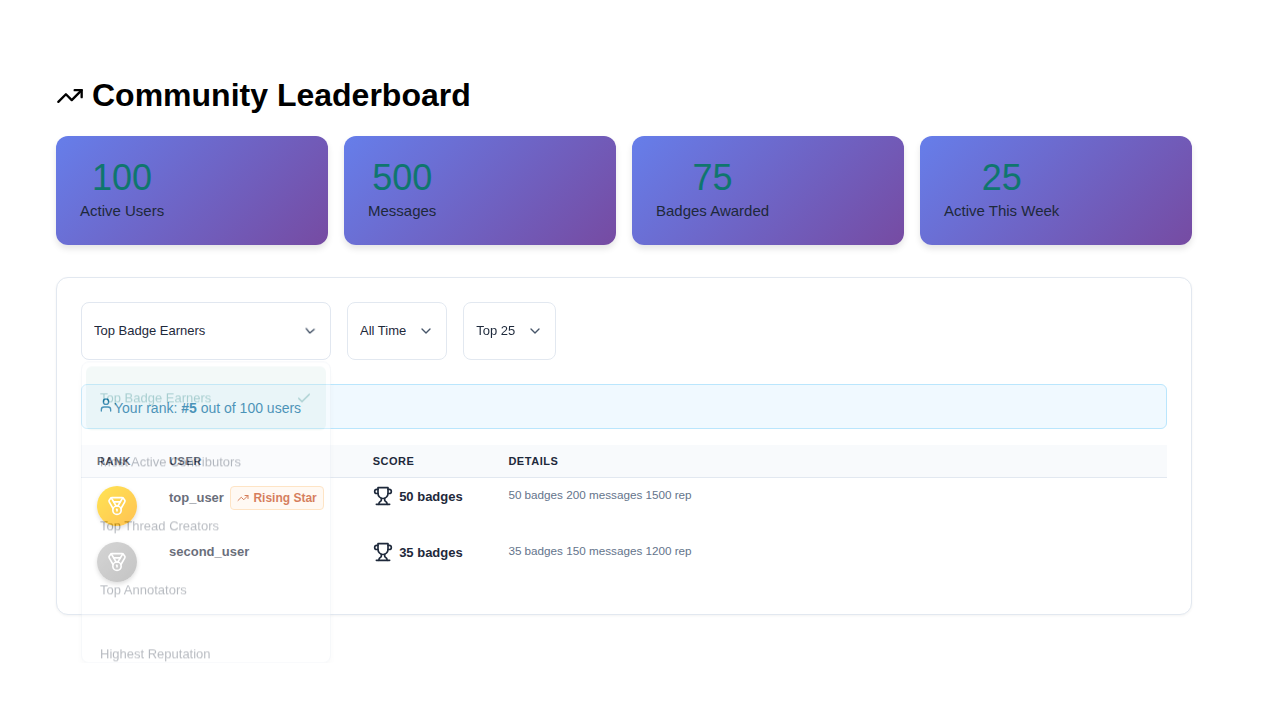
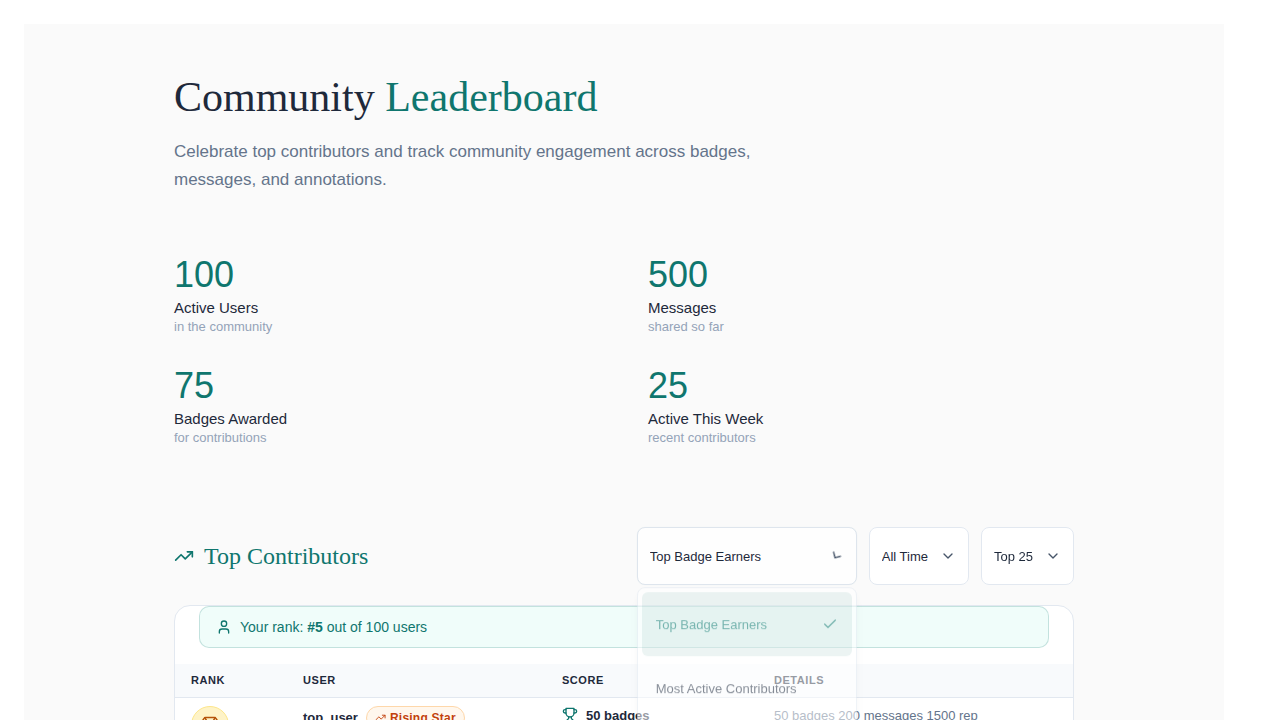
Address review: extract magic colors, fix BadgeMeta pattern, lint, changelog
- Run prettier on Leaderboard.tsx (CI lint failure).
- Extract rank badge palette into RANK_COLORS constants (file-local) and
  reuse OS_LEGAL_COLORS tokens for the silver tier.
- Extract rising-star tag palette into RISING_STAR_COLORS constants.
- Bump RisingStarTag font-size from 11px to 12px (WCAG 2.1 small-text floor).
- Replace BadgeMeta's class-name selectors with named BadgeName / BadgeStats
  styled components, matching the file's overall pattern.
- Add CHANGELOG entry describing the redesign.

diff --git a/frontend/src/components/community/Leaderboard.tsx b/frontend/src/components/community/Leaderboard.tsx
@@ -1,11 +1,6 @@
 import React, { useState } from "react";
 import { useQuery } from "@apollo/client";
-import {
-  Dropdown,
-  StatBlock,
-  StatGrid,
-  Table,
-} from "@os-legal/ui";
+import { Dropdown, StatBlock, StatGrid, Table } from "@os-legal/ui";
 import styled from "styled-components";
 import { useNavigate } from "react-router-dom";
 import {
@@ -32,6 +27,26 @@ import {
 } from "../../types/leaderboard";
 import { Badge } from "../badges/Badge";
 import { OS_LEGAL_COLORS } from "../../assets/configurations/osLegalStyles";
+
+// File-local rank palette. Centralised here so the three RankBadge ternaries
+// stay readable and the values are easy to update in one place. These are
+// intentionally not in OS_LEGAL_COLORS because they are leaderboard-specific.
+const RANK_COLORS = {
+  gold: { bg: "#fef3c7", border: "#fde68a", text: "#b45309" },
+  silver: {
+    bg: OS_LEGAL_COLORS.surfaceLight,
+    border: OS_LEGAL_COLORS.border,
+    text: OS_LEGAL_COLORS.textTertiary,
+  },
+  bronze: { bg: "#fed7aa", border: "#fdba74", text: "#9a3412" },
+} as const;
+
+// File-local "rising star" tag palette (orange/amber tints).
+const RISING_STAR_COLORS = {
+  bg: "#fff7ed",
+  border: "#fed7aa",
+  text: "#c2410c",
+} as const;
 
 // ═══════════════════════════════════════════════════════════════════════════════
 // STYLED COMPONENTS - Aligned with CorpusListView / OS Legal design system
@@ -189,22 +204,22 @@ const RankBadge = styled.div<{ $rank: number }>`
   font-weight: 600;
   font-size: 14px;
   background: ${(props) => {
-    if (props.$rank === 1) return "#fef3c7";
-    if (props.$rank === 2) return "#f1f5f9";
-    if (props.$rank === 3) return "#fed7aa";
+    if (props.$rank === 1) return RANK_COLORS.gold.bg;
+    if (props.$rank === 2) return RANK_COLORS.silver.bg;
+    if (props.$rank === 3) return RANK_COLORS.bronze.bg;
     return OS_LEGAL_COLORS.surfaceLight;
   }};
   color: ${(props) => {
-    if (props.$rank === 1) return "#b45309";
-    if (props.$rank === 2) return "#475569";
-    if (props.$rank === 3) return "#9a3412";
+    if (props.$rank === 1) return RANK_COLORS.gold.text;
+    if (props.$rank === 2) return RANK_COLORS.silver.text;
+    if (props.$rank === 3) return RANK_COLORS.bronze.text;
     return OS_LEGAL_COLORS.textSecondary;
   }};
   border: 1px solid
     ${(props) => {
-      if (props.$rank === 1) return "#fde68a";
-      if (props.$rank === 2) return "#e2e8f0";
-      if (props.$rank === 3) return "#fdba74";
+      if (props.$rank === 1) return RANK_COLORS.gold.border;
+      if (props.$rank === 2) return RANK_COLORS.silver.border;
+      if (props.$rank === 3) return RANK_COLORS.bronze.border;
       return OS_LEGAL_COLORS.border;
     }};
 `;
@@ -237,12 +252,12 @@ const RisingStarTag = styled.span`
   align-items: center;
   gap: 4px;
   padding: 2px 8px;
-  font-size: 11px;
+  font-size: 12px;
   font-weight: 600;
-  background: #fff7ed;
-  border: 1px solid #fed7aa;
+  background: ${RISING_STAR_COLORS.bg};
+  border: 1px solid ${RISING_STAR_COLORS.border};
   border-radius: 999px;
-  color: #c2410c;
+  color: ${RISING_STAR_COLORS.text};
   letter-spacing: 0.02em;
 `;
 
@@ -292,17 +307,17 @@ const BadgeCard = styled.div`
 const BadgeMeta = styled.div`
   flex: 1;
   min-width: 0;
+`;
 
-  .badge-name {
-    font-weight: 600;
-    color: ${OS_LEGAL_COLORS.textPrimary};
-    margin-bottom: 4px;
-  }
+const BadgeName = styled.div`
+  font-weight: 600;
+  color: ${OS_LEGAL_COLORS.textPrimary};
+  margin-bottom: 4px;
+`;
 
-  .badge-stats {
-    font-size: 13px;
-    color: ${OS_LEGAL_COLORS.textSecondary};
-  }
+const BadgeStats = styled.div`
+  font-size: 13px;
+  color: ${OS_LEGAL_COLORS.textSecondary};
 `;
 
 const EmptyStateBox = styled.div`
@@ -505,9 +520,8 @@ export const Leaderboard: React.FC<LeaderboardProps> = ({ corpusId }) => {
                   <RankInfoBanner>
                     <User size={16} />
                     <span>
-                      Your rank:{" "}
-                      <strong>#{leaderboard.currentUserRank}</strong> out of{" "}
-                      {leaderboard.totalUsers} users
+                      Your rank: <strong>#{leaderboard.currentUserRank}</strong>{" "}
+                      out of {leaderboard.totalUsers} users
                     </span>
                   </RankInfoBanner>
                 )}
@@ -608,11 +622,11 @@ export const Leaderboard: React.FC<LeaderboardProps> = ({ corpusId }) => {
                   <BadgeCard key={dist.badge.id}>
                     <Badge badge={dist.badge} size="medium" />
                     <BadgeMeta>
-                      <div className="badge-name">{dist.badge.name}</div>
-                      <div className="badge-stats">
+                      <BadgeName>{dist.badge.name}</BadgeName>
+                      <BadgeStats>
                         Awarded {dist.awardCount} times to{" "}
                         {dist.uniqueRecipients} users
-                      </div>
+                      </BadgeStats>
                     </BadgeMeta>
                   </BadgeCard>
                 ))}

diff --git a/CHANGELOG.md b/CHANGELOG.md
@@ -7,9 +7,18 @@ and this project adheres to [Semantic Versioning](https://semver.org/spec/v2.0.0
 
 ## [Unreleased]
 
+### Changed
+
+- **Leaderboard page redesigned to match the OS Legal design system** (`frontend/src/components/community/Leaderboard.tsx`):
+  - Replaced custom gradient/inline-style sections with a hero header, `StatGrid`-based community stats, and named styled components for every compound element (`UsernameCell`, `ScoreCell`, `DetailsCell`, `RisingStarTag`, `BadgeCard`, `BadgeMeta`, `BadgeName`, `BadgeStats`).
+  - `RankBadge` palette tokenised into a file-local `RANK_COLORS` map and `RisingStarTag` colours into `RISING_STAR_COLORS`; rank-2 surface/border/text now reuse `OS_LEGAL_COLORS` tokens directly.
+  - Bumped `RisingStarTag` font-size from 11px to 12px (WCAG 2.1 small-text floor).
+  - Removed unused `GradientSegment` import and `statsLoading` variable.
+
 ### Fixed
 
-- **GraphQL POST 403 storm when Auth0 token is empty** (Issue #1431): production logs were filling with `Forbidden (CSRF token missing.): /graphql/` because the React frontend always sent `Authorization: ""` whenever the Auth0 access token was momentarily missing (startup race, silent-refresh failure, post-expiry re-mount), and `conditional_csrf_exempt` only bypassed CSRF when the header was *truthy*. An empty header fell through to Django's session/CSRF path even though the frontend never carries a CSRF token. Two-sided fix:
+- **GraphQL POST 403 storm when Auth0 token is empty** (Issue #1431): production logs were filling with `Forbidden (CSRF token missing.): /graphql/` because the React frontend always sent `Authorization: ""` whenever the Auth0 access token was momentarily missing (startup race, silent-refresh failure, post-expiry re-mount), and `conditional_csrf_exempt` only bypassed CSRF when the header was _truthy_. An empty header fell through to Django's session/CSRF path even though the frontend never carries a CSRF token. Two-sided fix:
+
   - **Frontend** (`frontend/src/index.tsx:36-50`): conditional-spread `Authorization` so the header is omitted entirely when the token is empty rather than sent as the empty string.
   - **Backend** (`config/graphql/security.py:43-86`): refactored `conditional_csrf_exempt` to skip CSRF when **either** an `Authorization` header is present (Bearer / API-key — browsers don't auto-attach it) **or** no session cookie is present (the request is fully anonymous; without a cookie there is nothing for a cross-origin attacker to ride). Whitespace-only `Authorization` headers are now treated as missing. Session-cookie requests without a Bearer token still go through the existing CSRF check, so authenticated session traffic remains protected.
   - **Backend** (`config/graphql_auth0_auth/settings.py:73-79`): `Auth0JWTSettings.__getattr__` now raises `AttributeError` quietly for any name beginning with `_`, eliminating the `ERROR settings  Auth0JWTSettings.__getattr__() - Invalid setting requested: _user_settings` log noise emitted whenever Python internals (deepcopy / pickle / `hasattr`) probed dunder/private attributes. Unknown public settings still log an error.
@@ -24,6 +33,7 @@ and this project adheres to [Semantic Versioning](https://semver.org/spec/v2.0.0
 ### Added
 
 - **Extract iterations & cell-level diff** — surfaces the three eval workflows callers asked for (model drift, document-version drift, fieldset-config sweeps) without forking the data model. Two new fields on `Extract` chain a parent/child relationship and capture run-time model config; everything else reuses the existing extract → fieldset → datacell pipeline so storage, permissions, and the runner are unchanged.
+
   - **Migration `extracts/0029_extract_iterations.py`** — adds `Extract.parent_extract` (self-FK, indexed) and `Extract.model_config` (`NullableJSONField`). Both nullable so legacy extracts continue to load with no backfill.
   - **`opencontractserver/extracts/diff.py`** — pure helper (no Graphene, no DB writes) that takes two pre-permission-filtered `Datacell` iterables and produces aligned `(row_key, column_key)` rows classified `UNCHANGED | CHANGED | ONLY_IN_A | ONLY_IN_B`. Rows are aligned by `Document.version_tree_id` so a single logical document still appears once even when the two iterations point at different content versions. `corrected_data` wins over `data` when computing equality. `_column_config_signature` gates the `column_config_changed` flag on prompt/instructions/output_type/etc., not name — so a rename alone doesn't trip it.
   - **`config/graphql/extract_mutations.py:CreateExtractIteration`** — single mutation that forks an extract along `MODEL`, `DOCUMENT_VERSIONS`, or `FIELDSET`. MODEL and DOCUMENT_VERSIONS share the parent's fieldset (column definitions stay byte-identical for apples-to-apples comparison); FIELDSET deep-clones `Fieldset` + `Column` rows via `_clone_fieldset_for_iteration` with optional per-column overrides. DOCUMENT_VERSIONS re-resolves each parent doc to the row with `is_current=True` in its `version_tree_id`. `auto_start=True` queues the existing `run_extract` task on commit — no new orchestration code path. `parent_extract` is set on the new extract; default name is `<source> (iteration N)` with N counting existing siblings + 1. Permission gate: caller needs `READ` on the source extract.
@@ -91,7 +101,7 @@ and this project adheres to [Semantic Versioning](https://semver.org/spec/v2.0.0
   - **`opencontractserver/tests/test_pydantic_ai_agents.py`** — New `_structured_response_raw` tests pinning the Anthropic temperature override (forces 0 when caller passes `temperature=None`, respects function-level pin, respects `config.temperature` pin, leaves OpenAI runs untouched), and three smoke tests for the strengthened `_build_structured_system_prompt` overrides covering the document, corpus, and core base agents.
 - **Extraction grounding follow-up** (Issue #1246, follow-up to original #1245 grounding pipeline):
   - **Bug — silent `page=1` fallback corrupted multi-page PDF grounding** (`opencontractserver/utils/extraction_grounding.py`, `_create_pdf_annotation`): when PlasmaPDF could not determine a page for a span, the previous code logged a warning and saved the annotation on page 1 anyway. For multi-page PDFs this produced a structurally incorrect annotation pinned to the wrong page (and therefore the wrong bounding box context), so users clicking through to the source landed on a different page than the one containing the extracted text. Fixed: `_create_pdf_annotation` now raises `ValueError` inside its `transaction.atomic()` savepoint, the savepoint rolls back, and the outer per-result `try/except` in `_create_grounding_annotations` logs it as a failed grounding attempt. Best-effort grounding is preserved (other annotations in the batch are unaffected) but no annotation is ever saved with a wrong page.
-  - **Bug — label-set lookup outside the per-annotation guard caused all-or-nothing failure** (`opencontractserver/utils/extraction_grounding.py`, `_create_grounding_annotations`): `corpus.ensure_label_and_labelset(...)` was invoked once before the per-annotation `try/with transaction.atomic()` loop. A failure to materialise the label-set (e.g. a transient DB error or a pre-existing constraint conflict) propagated out, was caught by the outer `try/except` in `data_extract_tasks.py`, and silently dropped *all* groundings for the datacell. Moved the call inside the savepoint so a label-lookup failure only skips the affected annotation.
+  - **Bug — label-set lookup outside the per-annotation guard caused all-or-nothing failure** (`opencontractserver/utils/extraction_grounding.py`, `_create_grounding_annotations`): `corpus.ensure_label_and_labelset(...)` was invoked once before the per-annotation `try/with transaction.atomic()` loop. A failure to materialise the label-set (e.g. a transient DB error or a pre-existing constraint conflict) propagated out, was caught by the outer `try/except` in `data_extract_tasks.py`, and silently dropped _all_ groundings for the datacell. Moved the call inside the savepoint so a label-lookup failure only skips the affected annotation.
   - **Bug — duplicate `OC_EXTRACT_SOURCE` annotations on Celery retry** (`opencontractserver/utils/extraction_grounding.py`, `_create_pdf_annotation` & `_create_span_annotation`): nothing prevented the grounding pipeline from creating fresh annotations and re-linking them via `datacell.sources.add(*annotations)` if `ground_extraction_to_annotations` ran twice on the same datacell (Celery retry after partial failure was the realistic trigger). Replaced the construct-then-`save()` flow with `Annotation.objects.get_or_create()` keyed on `(document, annotation_label, annotation_type, raw_text, …)` so retries reuse existing rows. `datacell.sources` is a `ManyToManyField`, so re-linking the same row is already a no-op once the row is shared.
   - **Constant — extracted `DOCX_MIME_TYPE`** (`opencontractserver/constants/document_processing.py`): the long `application/vnd.openxmlformats-officedocument.wordprocessingml.document` literal previously lived inline in `_load_document_text_and_layer`. Per the project's no-magic-strings rule it now sits next to `MARKDOWN_MIME_TYPE` and is imported from one place.
   - **Type annotations** (`opencontractserver/utils/extraction_grounding.py`): `Document`, `Corpus`, `Datacell`, `Annotation`, and `AnnotationLabel` parameters and return types added via a `TYPE_CHECKING` block on every public and helper function. No runtime change.
@@ -104,6 +114,7 @@ and this project adheres to [Semantic Versioning](https://semver.org/spec/v2.0.0
 ### Changed
 
 - **Test/type cleanup follow-ups from the PR #1383 review** (Issue #1385):
+
   - Pinned the `isProcessing` contract for SYNC_CONTENT in `frontend/tests/CorpusChat.ct.tsx` "SYNC_CONTENT renders a complete message immediately": added an `expect(input).toBeEnabled()` assertion after the reply renders, locking the documented invariant that `setIsProcessing(true)` is owned solely by `ASYNC_START` and that a SYNC_CONTENT-only reply must never disable the input.
   - Consolidated the duplicated `::: oc-component` fence dispatcher: extracted `OcComponentBlock` interface and a new `buildOcComponentCustomBlocks(renderMarkdown)` helper into `frontend/src/utils/camlComponents.ts`. Both `frontend/src/hooks/useCamlComponentRenderer.tsx` and `frontend/src/components/corpuses/caml/CamlDirectiveRenderer.tsx` now share the same helper instead of each casting `block` independently.
   - Replaced `route: any` and `page: any` escape hatches with the proper `Route` and `Page` types from `@playwright/test` in `frontend/tests/CorpusDescriptionEditor.ct.tsx` (`setupMdRoute` and the abort-route test).
@@ -120,7 +131,7 @@ and this project adheres to [Semantic Versioning](https://semver.org/spec/v2.0.0
 - **Cross-corpus structural-annotation leak in `CoreAnnotationVectorStore`** (`opencontractserver/llms/vector_stores/core_vector_stores.py:296-326,371-413`): The corpus-wide retrieval path (`corpus_id` set, `document_id=None`) returned every structural annotation in the database regardless of corpus. Two collaborating defects caused the leak:
   1. `Q(structural=True)` in the corpus-only branch had **no corpus constraint** — parser-produced structural annotations have `Annotation.document_id = corpus_id = NULL`, so corpus membership is only knowable through `structural_set → Document.structural_annotation_set (reverse FK) → DocumentPath.corpus_id`, a join the previous code did not perform.
   2. The `check_corpus_deletion` block (default `True`) added `Q(document_id__in=active_doc_ids)`, and `__in` lookups never match `NULL`, so structural annotations were silently dropped on the production-default path. Bypassing this filter with `check_corpus_deletion=False` exposed defect #1 directly.
-  - **Impact**: Multi-tenant deployments leaked structural annotations across tenant corpora — a real security boundary violation since the upfront IDOR check only validated the *requested* `corpus_id`, not the *returned* rows. Single-tenant deployments saw it as a corpus-scoping / search-quality bug (e.g. corpus-wide benchmark runs returned chunks from abandoned corpora). The standard `Annotation.objects.visible_to_user()` permission filter was bypassed entirely because the vector store builds its own filter chain rather than going through that manager method.
+  - **Impact**: Multi-tenant deployments leaked structural annotations across tenant corpora — a real security boundary violation since the upfront IDOR check only validated the _requested_ `corpus_id`, not the _returned_ rows. Single-tenant deployments saw it as a corpus-scoping / search-quality bug (e.g. corpus-wide benchmark runs returned chunks from abandoned corpora). The standard `Annotation.objects.visible_to_user()` permission filter was bypassed entirely because the vector store builds its own filter chain rather than going through that manager method.
   - **Fix** (corpus boundary + per-document visibility for the structural class): the corpus-only branch now requires `structural_set_id__in=<sets reachable from a document in this corpus that is visible to the user>`, joining through `Document.objects.visible_to_user(user).filter(path_records__corpus_id=...)`. The deletion-aware filter accepts both `document_id__in=active` AND structural rows whose set links to one of those active documents, so parser-produced structural annotations remain reachable on the default path. `CoreAnnotationVectorStore.global_search()` was already correct (it explicitly joins via `structural_set__documents__in=accessible_doc_ids`) and is unchanged.
   - Regression coverage: `opencontractserver/tests/test_corpus_isolation_vector_store.py` — six tests covering cross-corpus leak, deletion-aware drop, orphan-set leak, document-scoped retrieval still returns structural rows, viewer-without-doc-permission excluded, creator still sees own row.
 - **Test-only**: `opencontractserver/tests/test_pydantic_ai_agents.py`, `opencontractserver/tests/test_structural_annotation_portability.py` — `Document.objects.create(...)` calls in `TransactionTestCase` setUp now pass `processing_started=timezone.now()` to short-circuit `process_doc_on_create_atomic`, which would otherwise eagerly chain a Celery PDF-ingest task that fails on the (file-less) test document and aborts the whole test class. Pre-existing failure, exposed cleanly when the regression suite was added.
@@ -131,7 +142,7 @@ and this project adheres to [Semantic Versioning](https://semver.org/spec/v2.0.0
 
 ### Added
 
-- **Pluggable text chunking strategies for `TxtParser`** (Issue #1348, alongside PR #1239): Introduced `opencontractserver/pipeline/parsers/text_chunkers.py` — a small registry-backed abstraction (`BaseTextChunker` + `TextChunk` + `get_chunker`) with three built-in strategies: `SentenceChunker` (spaCy `doc.sents`, preserves pre-#1348 behaviour and emits the existing `SENTENCE` label), `ParagraphChunker` (blank-line split with optional `min_chars` filter and `max_chars` oversize-paragraph fallback, emits `PARAGRAPH`), and `SlidingWindowChunker` (fixed-character window with configurable `overlap` and optional `respect_word_boundaries` snap, emits `WINDOW`). `TxtParser` now declares a `Settings` dataclass with a `chunkers: list[ChunkerSpec]` field (default `[{"name": "sentence"}]`) that can be overridden via `PipelineSettings` *or* per-call via a `chunkers=[...]` kwarg on `parse_document`; the parser iterates the configured strategies and emits one structural SPAN_LABEL annotation per chunk under each strategy's label, so stacked configurations (e.g. sentence + paragraph) index multiple retrieval granularities simultaneously. Motivates the benchmark work in #1239: the LegalBench-RAG `probe_recall_at_10` gap on `privacy_qa` (0.22 observed vs 0.5–0.8 paper floor) is the thesis for needing paragraph-granularity retrieval units, but this PR is strategy-neutral — which chunker wins for which subset is a follow-up optimisation to be driven by the benchmark harness itself. Regression coverage in `opencontractserver/tests/test_text_chunkers.py` (pure-Python, no Django DB) exercises offset/whitespace invariants, overlap arithmetic, word-boundary snapping, argument validation and registry lookup; `test_txt_ingestor_pipeline.py` gains two integration tests that parse the live fixture with a paragraph-only and a stacked paragraph+sliding_window recipe. Existing sentence-only ingestion path is unchanged.
+- **Pluggable text chunking strategies for `TxtParser`** (Issue #1348, alongside PR #1239): Introduced `opencontractserver/pipeline/parsers/text_chunkers.py` — a small registry-backed abstraction (`BaseTextChunker` + `TextChunk` + `get_chunker`) with three built-in strategies: `SentenceChunker` (spaCy `doc.sents`, preserves pre-#1348 behaviour and emits the existing `SENTENCE` label), `ParagraphChunker` (blank-line split with optional `min_chars` filter and `max_chars` oversize-paragraph fallback, emits `PARAGRAPH`), and `SlidingWindowChunker` (fixed-character window with configurable `overlap` and optional `respect_word_boundaries` snap, emits `WINDOW`). `TxtParser` now declares a `Settings` dataclass with a `chunkers: list[ChunkerSpec]` field (default `[{"name": "sentence"}]`) that can be overridden via `PipelineSettings` _or_ per-call via a `chunkers=[...]` kwarg on `parse_document`; the parser iterates the configured strategies and emits one structural SPAN_LABEL annotation per chunk under each strategy's label, so stacked configurations (e.g. sentence + paragraph) index multiple retrieval granularities simultaneously. Motivates the benchmark work in #1239: the LegalBench-RAG `probe_recall_at_10` gap on `privacy_qa` (0.22 observed vs 0.5–0.8 paper floor) is the thesis for needing paragraph-granularity retrieval units, but this PR is strategy-neutral — which chunker wins for which subset is a follow-up optimisation to be driven by the benchmark harness itself. Regression coverage in `opencontractserver/tests/test_text_chunkers.py` (pure-Python, no Django DB) exercises offset/whitespace invariants, overlap arithmetic, word-boundary snapping, argument validation and registry lookup; `test_txt_ingestor_pipeline.py` gains two integration tests that parse the live fixture with a paragraph-only and a stacked paragraph+sliding_window recipe. Existing sentence-only ingestion path is unchanged.
 - **Global post-retrieval reranker for vector search** (Issue #1349): Adds an optional cross-encoder reranking stage that runs after first-stage vector / hybrid retrieval, so OpenContracts can close the gap between vanilla HNSW recall and the accuracy achievable with a cross-encoder scoring pass.
   - New abstract base class `opencontractserver.pipeline.base.reranker.BaseReranker` wired into the existing `PipelineComponentBase` settings machinery: concrete subclasses declare a `Settings` dataclass (loaded from `PipelineSettings` at runtime) and implement `_rerank_impl(query, passages, **kwargs)`. A default `_arerank_impl` wraps the sync implementation via `sync_to_async` so every backend has a working async path without duplicating logic.
   - Fault-tolerant helpers `safe_rerank` / `safe_arerank` swallow reranker failures and return `None` so retrieval degrades gracefully to the first-stage ordering — critical because a misconfigured reranker must never take down semantic search.
@@ -297,6 +308,7 @@ and this project adheres to [Semantic Versioning](https://semver.org/spec/v2.0.0
 
 - **`useAgentChat` WebSocket reconnects on every approval-gate transition** (Issue #1296): `frontend/src/hooks/useAgentChat.ts` had `pendingApproval` in the main WebSocket `useEffect` dependency array, so every `ASYNC_APPROVAL_NEEDED` / `ASYNC_APPROVAL_RESULT` / `ASYNC_CONTENT` / `ASYNC_FINISH` message that set or cleared approval state tore the socket down and recreated it mid-conversation. Impacts: approval decisions could race the reconnect and silently fail (`isConnected` flipped to `false` before the fresh socket opened), in-flight streaming tokens were dropped whenever an approval gate opened/closed, and the server saw a brand-new consumer attaching mid-run. Fix: mirror `pendingApproval` in a `pendingApprovalRef` updated by a separate effect (`useAgentChat.ts:291-299`), read `pendingApprovalRef.current` from the `ASYNC_CONTENT` / `ASYNC_APPROVAL_RESULT` / `ASYNC_FINISH` branches of `onmessage` (`useAgentChat.ts:651-752`), and drop `pendingApproval` from the socket effect's dependency array (`useAgentChat.ts:802-818`). Tests in `frontend/src/hooks/__tests__/useAgentChat.test.tsx`: removed the previous `_open()` workarounds around approval events, replaced the old "reconnects on approval state change" regression test with a new `does not reconnect the socket when approval state changes (issue #1296)` guard that asserts `wsInstances.length` is unchanged, `originalSocket.close` was not called, and the approval decision is dispatched through the original socket. All 23 tests still pass.
 - **Forced-by-selected-relation visibility now respects explicit user selection regardless of `showStructural`** (Issues #1289, #1294): In `frontend/src/components/annotator/hooks/useVisibleAnnotations.ts:54-62`, the IDs forced visible by a selected relation were previously only merged into `forcedIds` inside the `if (showStructural)` branch. With structural annotations toggled off, clicking a relation in the sidebar failed to highlight its member annotations — making the relation sidebar effectively unusable in that mode. Moved the `forcedBySelectedRelationIds` merge outside the structural branch so explicit user selection always wins (consistent with the existing `forcedBySelection` treatment). Structural-relationships auto-forcing (`showStructuralRelationships`) remains gated on `showStructural`, since that path is implicit rather than user-initiated.
+
   - Updated `frontend/src/components/annotator/hooks/__tests__/useVisibleAnnotations.test.tsx`: replaced the pinning test that documented the bug ("does NOT apply forced-by-selected-relation when showStructural is false") with two assertions verifying the corrected behavior — forced-by-selected-relation now applies to both non-structural annotations (overriding a label filter) and structural annotations when `showStructural` is false. All 16 tests in the file pass; `tsc --noEmit` clean.
 
 - **`useUpdateAnnotation` lost sibling annotations on update** (`frontend/src/components/annotator/hooks/AnnotationHooks.tsx:386`): The hook called `replaceAnnotations([updatedAnnotation])`, which collapses the whole `annotations` array down to the single passed-in element. On any document with more than one annotation, updating one annotation silently dropped the others. Fixed by using `setPdfAnnotations` with a `.map` that swaps only the matching id; regression test added in `AnnotationHooks.test.tsx` (see `useUpdateAnnotation > updates one annotation in place without dropping siblings`).
@@ -310,6 +322,7 @@ and this project adheres to [Semantic Versioning](https://semver.org/spec/v2.0.0
   - `frontend/tests/SelectAnalyzerOrFieldsetModal.ct.tsx` + `frontend/tests/SelectAnalyzerOrFieldsetModalTestWrapper.tsx` + `frontend/tests/SelectAnalyzerOrFieldsetModalMocks.ts` — 16 tests. Covers analyzer-grid rendering, document vs corpus subtitle, result-count pill, debounced search filter, "no match" and "none available" empty states, selection flipping Run↔Configure, schema preview toggle, tab switching (analyzer ↔ fieldset), pagination across 12 analyzers, and all three close paths.
   - Verification: 450/450 vitest + 43/43 Playwright CT (stable across 3 consecutive runs); `tsc --noEmit` clean; prettier clean.
 - **Knowledge-base document viewer CT coverage remediation** (Issue #1277): Added ~1,400 lines of new Playwright component tests across the four highest-uncovered files in `frontend/src/components/knowledge_base/document/` — `DocumentKnowledgeBase.tsx` (1,961 LOC / 25.5%), `right_tray/ChatTray.tsx` (1,417 / 25.3%), `unified_feed/RelationshipActionModal.tsx` (549 / 16.2%), and `unified_feed/UnifiedContentFeed.tsx` (577 / 29.8%). All new tests use the existing `*TestWrapper` pattern and drive the UI through `--reporter=list` as required by CLAUDE.md.
+
   - `frontend/tests/RelationshipActionModal.ct.tsx` — Expanded from 3 to 16 specs. New coverage: corpus-loaded rendering, role-picker + add-to-existing flow with callback assertion, structural-relationship filtering, create-mode search + label-list filtering, "no labelset" warning, create-label form round-trip (open, cancel, submit via `SMART_LABEL_SEARCH_OR_CREATE` mock, change selected label), create-mode submit enablement, full submission (source/target pill assignment → `onCreate(labelId, sourceIds, targetIds)` verification), cancel → `onClose`, `getAnnotationPreview` ellipsis truncation at 30 chars, and singular/plural `Selected: N annotation(s)` rendering.
   - `frontend/tests/RelationshipActionModalTestWrapper.tsx` — Extended to accept `withCorpus` / `hasLabelset` / `relationLabels` / `onAddToExisting` / `onCreate` / `onClose` / `corpusId` props. Seeds `corpusStateAtom` via an internal `CorpusSetupInner` children-wrapping effect component (children-wrapping rather than null-returning to satisfy Playwright CT's babel transform, which silently fails to mount otherwise).
   - `frontend/tests/RelationshipActionModalFixtures.ts` — New plain `.ts` fixtures file hosting `buildRelationLabel`. Kept separate from the `.tsx` wrapper to avoid the Playwright CT split-import rule (pitfall #16 in `CLAUDE.md`).
@@ -344,6 +357,7 @@ and this project adheres to [Semantic Versioning](https://semver.org/spec/v2.0.0
   - `frontend/tests/system-settings-flows.ct.tsx` — 12 tests covering additional `components/admin/SystemSettings.tsx` flows not exercised by `admin-components.ct.tsx` (17.9% → target ≥60%): assigning/clearing parsers via the filetype-default dropdown, opening the Default Embedder modal and saving both list-selected and hand-typed class paths, non-secret config save (`num_workers` int + `verbose` bool select) through `AdvancedSettingsPanel`, mobile-tab keyboard navigation (`ArrowLeft`/`ArrowRight`/`Home`/`End` including wrap-around), mutation error branches (network error toast + server-side `ok=false` message), and the `handleToggleEnabled` transition from empty `enabledComponents` ("all enabled") to an explicit list.
   - Verification: 77/77 tests pass (`yarn test:ct --reporter=list admin-components.ct.tsx pipeline-icons.ct.tsx global-agent-management.ct.tsx system-settings-flows.ct.tsx`) with no changes to pre-existing admin-components tests. `tsc --noEmit` and `prettier --check` clean.
 - **Annotator hook / renderer / label-selector coverage** (Issue #1284): Added vitest coverage for the annotator hook layer plus Playwright CT coverage for the text and docx renderers and the enhanced label selector.
+
   - `frontend/src/components/annotator/hooks/__tests__/AnnotationHooks.test.tsx` — 25 tests covering state-wrapper helpers, guard clauses, success paths, and relation side effects. Includes a regression that keeps a sibling annotation in state across a `useUpdateAnnotation` call.
   - `frontend/tests/TxtAnnotator.ct.tsx`, `frontend/tests/DocxAnnotator.ct.tsx`, and `frontend/tests/EnhancedLabelSelector.ct.tsx` — CT suites driving prop-driven scenarios (visibility filtering, search highlights, chat sources, structural filtering, read-only mode).
 
@@ -475,7 +489,7 @@ and this project adheres to [Semantic Versioning](https://semver.org/spec/v2.0.0
   2. Batch-deactivate every superseded `DocumentPath` row with one `.filter(pk__in=…).update(is_current=False)` call.
   3. Batch-insert every successor row with one `.bulk_create()` call, then manually dispatch `post_save` (`created=True`) via the new `_dispatch_document_path_created_signals` helper so the document-text embedding side effect wired up in `documents/signals.py::process_doc_on_document_path_create` still fires (bulk_create normally bypasses per-row signals).
   4. Use `select_related("document")` + `select_for_update(of=("self",))` on the affected-path query so `current.document` accesses inside the build loop no longer N+1, and the row lock stays scoped to the `DocumentPath` table. Net result: a 100-document bulk move now executes roughly 4 DB round-trips instead of ~300, and the old batched `.update()` performance is restored without sacrificing the Path Tree history nodes introduced in PR #1195.
-- **TOCTOU race on `DocumentPath` uniqueness** (Issue #1200): `DocumentFolderService.move_document_to_folder()`, `move_documents_to_folder()`, and `delete_folder()` previously caught `IntegrityError` from the `unique_active_path_per_corpus` partial unique constraint and either bubbled it up to the caller as a "Path conflict, please retry" error (single move) or rolled back the entire batch (bulk move / folder delete). Under concurrent moves of different documents to the same target folder, two transactions could both observe a candidate path as free in `_disambiguate_path()` and race to insert it; the loser hit the partial unique index and the operation failed. New helper `DocumentFolderService._create_successor_path_with_retry()` (`opencontractserver/corpuses/folder_service.py`) wraps the deactivate-then-create pair in a savepoint and retries with a freshly disambiguated path on `IntegrityError`, treating each losing path as occupied. Up to `MAX_PATH_CREATE_RETRIES + 1` attempts (`opencontractserver/constants/document_processing.py`) run before propagating the conflict. The partial unique index added in migration `0023_documentpath_documentpathgroupobjectpermission_and_more` remains the authoritative correctness guarantee. Test class `TestMoveDocumentIntegrityRecovery` covers single-document transient-failure recovery, disambiguated retry path selection, and exhausted-retry rollback.  Bulk operations (`move_documents_to_folder`, `delete_folder`) now use the batch approach from Issue #1199 instead of per-row retry, so their former test classes (`TestBulkMoveIntegrityRecovery`, `TestDeleteFolderIntegrityRecovery`) have been replaced by `TestCoverageGapBulkMoveIntegrityErrorRollback` and `TestCoverageGapDeleteFolderIntegrityErrorRollback` which verify full-batch rollback on `IntegrityError` (`opencontractserver/tests/test_document_folder_service.py`).
+- **TOCTOU race on `DocumentPath` uniqueness** (Issue #1200): `DocumentFolderService.move_document_to_folder()`, `move_documents_to_folder()`, and `delete_folder()` previously caught `IntegrityError` from the `unique_active_path_per_corpus` partial unique constraint and either bubbled it up to the caller as a "Path conflict, please retry" error (single move) or rolled back the entire batch (bulk move / folder delete). Under concurrent moves of different documents to the same target folder, two transactions could both observe a candidate path as free in `_disambiguate_path()` and race to insert it; the loser hit the partial unique index and the operation failed. New helper `DocumentFolderService._create_successor_path_with_retry()` (`opencontractserver/corpuses/folder_service.py`) wraps the deactivate-then-create pair in a savepoint and retries with a freshly disambiguated path on `IntegrityError`, treating each losing path as occupied. Up to `MAX_PATH_CREATE_RETRIES + 1` attempts (`opencontractserver/constants/document_processing.py`) run before propagating the conflict. The partial unique index added in migration `0023_documentpath_documentpathgroupobjectpermission_and_more` remains the authoritative correctness guarantee. Test class `TestMoveDocumentIntegrityRecovery` covers single-document transient-failure recovery, disambiguated retry path selection, and exhausted-retry rollback. Bulk operations (`move_documents_to_folder`, `delete_folder`) now use the batch approach from Issue #1199 instead of per-row retry, so their former test classes (`TestBulkMoveIntegrityRecovery`, `TestDeleteFolderIntegrityRecovery`) have been replaced by `TestCoverageGapBulkMoveIntegrityErrorRollback` and `TestCoverageGapDeleteFolderIntegrityErrorRollback` which verify full-batch rollback on `IntegrityError` (`opencontractserver/tests/test_document_folder_service.py`).
 - **Bulk move loop recomputed target folder path per document** (Issue #1202): `DocumentFolderService.move_documents_to_folder()` (`opencontractserver/corpuses/folder_service.py`) called `_compute_moved_path()` once per document, and each call invoked `target_folder.get_path()` — which walks ancestors via a recursive CTE query. For an N-document bulk move to the same folder, this issued N redundant CTE queries for an O(1) value. The target folder path is now resolved once before the loop and threaded through `_compute_moved_path()` via a new optional `target_folder_path` parameter.
 - **Backend coverage disappearing from Codecov dashboard** (`.codecov.yml`): Added a `backend` flag with `carryforward: true` (paths: `opencontractserver/`, `config/`), mirroring the pattern already in place for `frontend-unit` / `frontend-component`. Without carryforward, any commit whose backend `pytest` job fails or times out (e.g. the merge commit `f166a59`, where the push-to-main `pytest` check failed after PR #1213 merged) causes Codecov to record backend files at 0% for that commit, which then replaces the healthy ~90% backend coverage on the dashboard — making it look as if only frontend coverage (~39%) is being collected. With carryforward, a flaky/failing backend run inherits the parent commit's backend coverage so the dashboard continues to reflect both suites.
 - **IngestionSource follow-up hardening** (Issue #1228):
